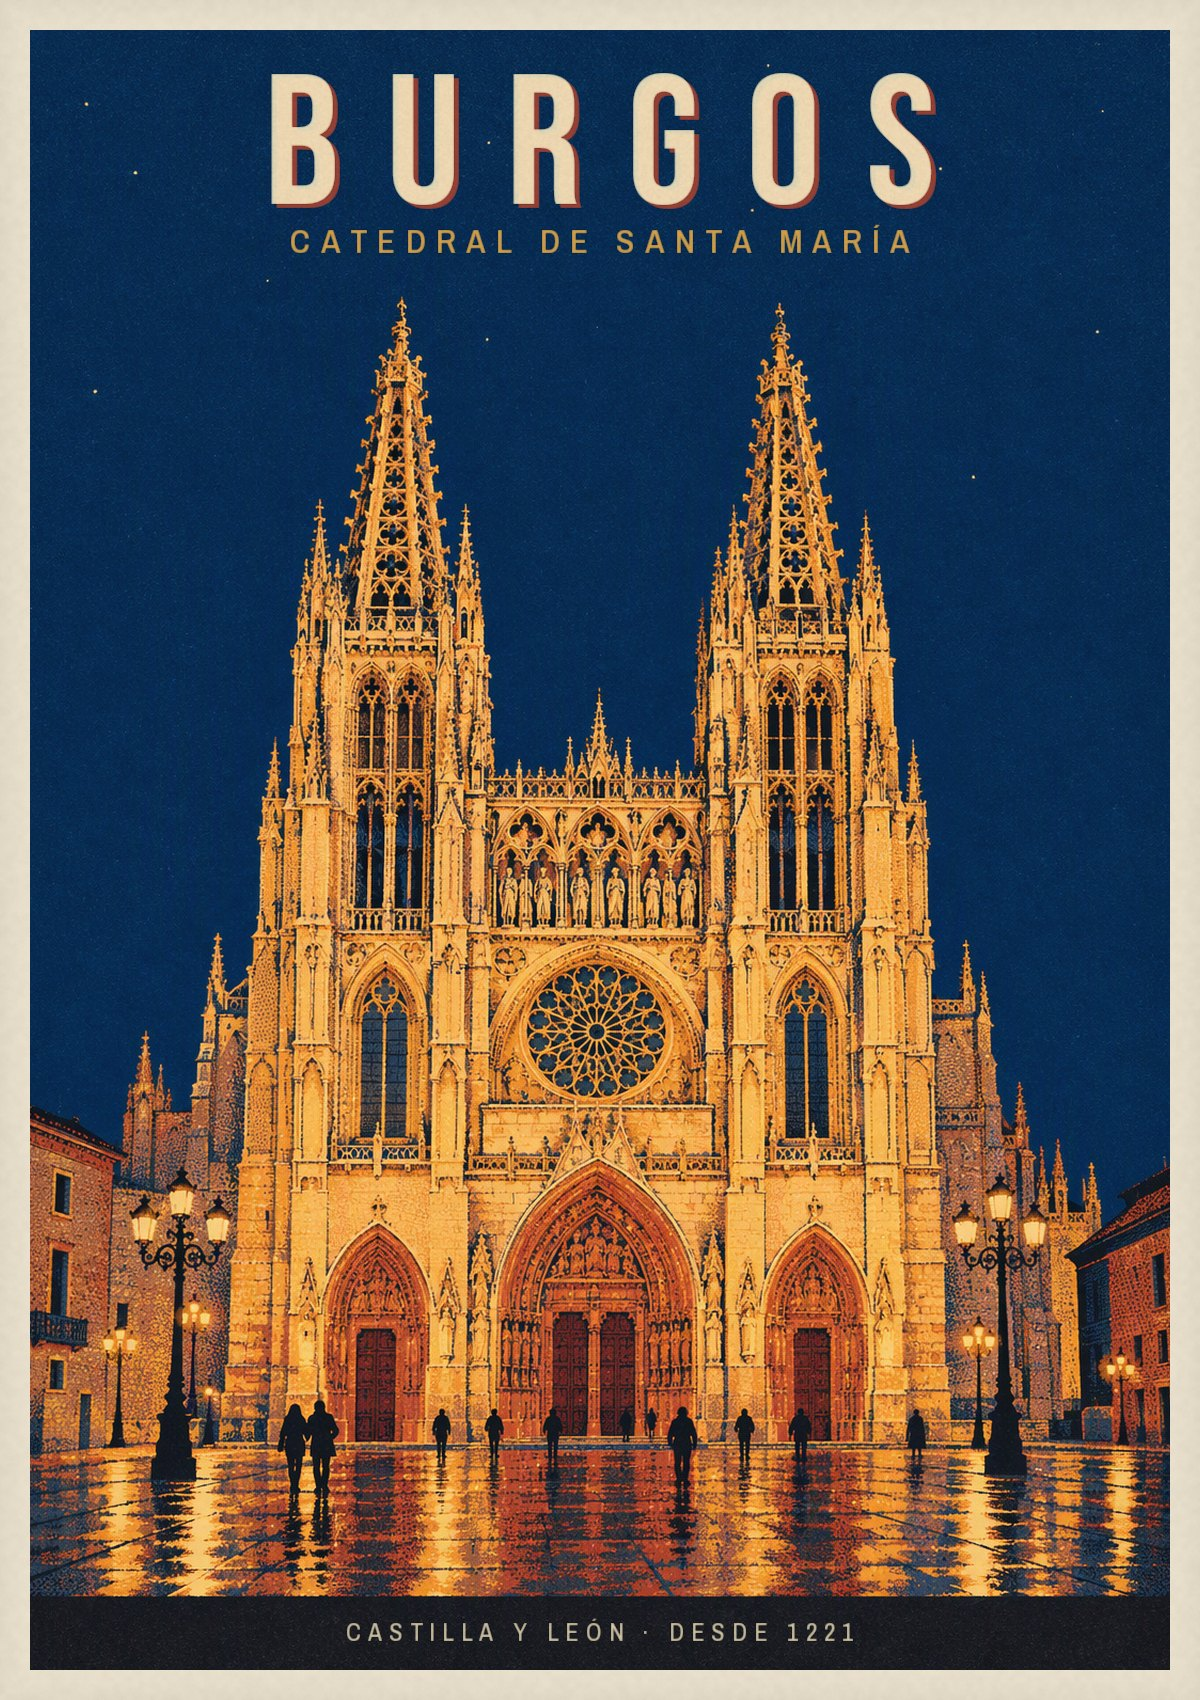
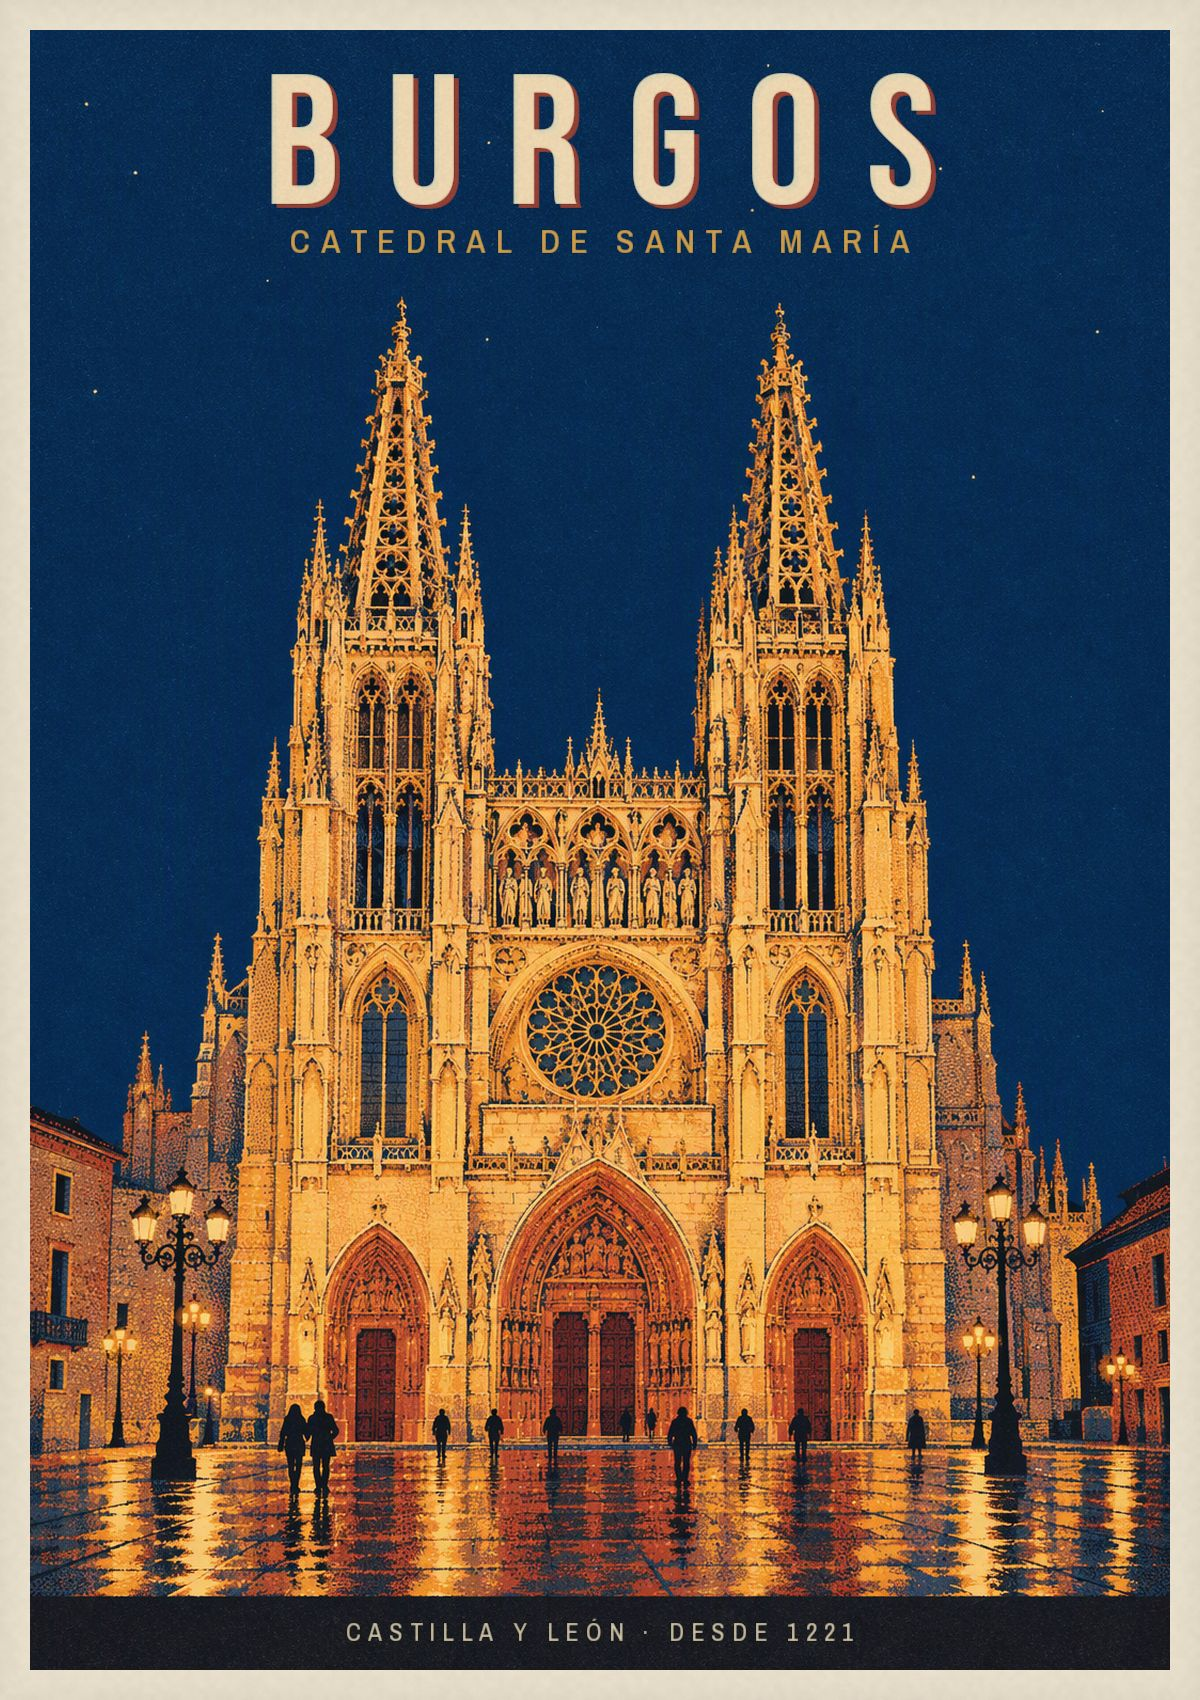
Room: load the code and assets from jsDelivr (GitHub Pages is slow on some routes)

diff --git a/room/js/scene/room.js b/room/js/scene/room.js
@@ -1,7 +1,8 @@
 import * as THREE from 'three';
 import { GLTFLoader } from '../../vendor/three/addons/loaders/GLTFLoader.js';
-import { DRACOLoader } from '../../vendor/three/addons/loaders/DRACOLoader.js';
 import { LIGHTS, lightmapMaterial, dynamicMaterial, glowMaterial, discMaterial, glassMaterial } from './materials.js';
+import { dracoLoader } from './draco.js';
+import { asset } from '../base.js';
 
 // three(x,y,z) = blender(x, z, -y)
 export const toThree = (b) => new THREE.Vector3(b[0], b[2], -b[1]);
@@ -48,15 +49,13 @@ function glossOf(p) {
   return s * (1 - p.rough * 0.6);
 }
 
-export async function loadRoom({ renderer, base = 'assets/', quality = 'high', onProgress = () => {} }) {
+export async function loadRoom({ renderer, base = asset('assets/'), quality = 'high', onProgress = () => {} }) {
   const manager = new THREE.LoadingManager();
   const loader = new GLTFLoader(manager);
-  const draco = new DRACOLoader(manager);
-  draco.setDecoderPath('vendor/three/draco/');
-  loader.setDRACOLoader(draco);
+  loader.setDRACOLoader(dracoLoader());
   const texLoader = new THREE.TextureLoader(manager);
   let loaded = 0;
-  const total = 16;
+  const total = 14;
   const tick = () => { loaded += 1; onProgress(Math.min(1, loaded / total)); };
   const lmMeta = await (await fetch(`${base}lightmaps/lightmaps.json`)).json();
   const sfx = quality === 'mobile' ? '_m' : '';
@@ -65,15 +64,16 @@ export async function loadRoom({ renderer, base = 'assets/', quality = 'high', o
   const black = new THREE.DataTexture(new Uint8Array([0, 0, 0, 255]), 1, 1);
   black.needsUpdate = true;
   for (const [a, entry] of Object.entries(lmMeta.atlases)) {
-    const at = { scales: new THREE.Vector3(), black, lampi: null, scaleI: 0 };
+    const at = { scales: new THREE.Vector3(), black, lampi: null, scaleI: 0, materials: [] };
     atlases[a] = at;
     const g = entry.groups;
     at.scales.set(g.amb.scale, g.lamp.scale, g.tv.scale);
-    // the lamp's bounce light (older bakes don't have it: the aimed lamp then only has its live direct light)
+    // the lamp's bounce light is only needed once the visitor aims the lamp: it loads after the first frame
+    // (deferred() below); older bakes don't have it, and the aimed lamp then only has its live direct light
     if (g.lampi) {
       at.scaleI = g.lampi.scale;
-      jobs.push(loadTex(texLoader, `${base}lightmaps/${g.lampi.file.replace('.webp', `${sfx}.webp`)}`, { renderer }).then((t) => { at.lampi = t; tick(); }));
-    } else loaded += 1;
+      at.lampiUrl = `${base}lightmaps/${g.lampi.file.replace('.webp', `${sfx}.webp`)}`;
+    }
     jobs.push(loadTex(texLoader, `${base}lightmaps/${g.amb.file.replace('.webp', `${sfx}.webp`)}`, { renderer }).then((t) => { at.amb = t; tick(); }));
     jobs.push(loadTex(texLoader, `${base}lightmaps/${g.lamp.file.replace('.webp', `${sfx}.webp`)}`, { renderer }).then((t) => { at.lamp = t; tick(); }));
     jobs.push(loadTex(texLoader, `${base}lightmaps/${g.tv.file.replace('.webp', `${sfx}.webp`)}`, { renderer }).then((t) => { at.tv = t; tick(); }));
@@ -88,7 +88,6 @@ export async function loadRoom({ renderer, base = 'assets/', quality = 'high', o
     if (e.total) onProgress(Math.min(1, (loaded + (e.loaded / e.total) * 4) / total));
   }).then((g) => { gltf = g; loaded += 4; onProgress(loaded / total); }));
   await Promise.all(jobs);
-  draco.dispose();
 
   const scene = gltf.scene;
   const byName = new Map();
@@ -147,6 +146,7 @@ export async function loadRoom({ renderer, base = 'assets/', quality = 'high', o
       let m = matCache.get(key);
       if (!m || runtime) {
         m = lightmapMaterial({ atlas: at, combined, gloss: glossOf(p), runtime: runtime ? null : label, tint: runtime ? new THREE.Color(1, 1, 1) : null, live });
+        at.materials.push(m);
         if (!runtime) matCache.set(key, m);
       }
       mesh.material = m;
@@ -185,5 +185,12 @@ export async function loadRoom({ renderer, base = 'assets/', quality = 'high', o
   if (L.Lamp_LightPos && L.Lamp_LightAim) {
     LIGHTS.lampDir.value.copy(toThree(L.Lamp_LightAim.pos)).sub(toThree(L.Lamp_LightPos.pos)).normalize();
   }
-  return { scene, byName, views, atlases, dynTex, specials, hoverables, dynamics, lmMeta };
+  // what can wait until the room is on screen: the lamp's bounce lightmaps
+  const deferred = () => Promise.all(Object.values(atlases).map((at) => (at.lampiUrl && !at.lampi
+    ? loadTex(new THREE.TextureLoader(), at.lampiUrl, { renderer }).then((t) => {
+      at.lampi = t;
+      for (const m of at.materials) { m.uniforms.tLampI.value = t; m.uniforms.uScaleI.value = at.scaleI; }
+    }).catch((err) => console.warn('lamp bounce lightmap unavailable', err))
+    : null)));
+  return { scene, byName, views, atlases, dynTex, specials, hoverables, dynamics, lmMeta, deferred };
 }

diff --git a/room/js/app/world.js b/room/js/app/world.js
@@ -13,6 +13,7 @@ import { LampLight } from '../scene/lamplight.js';
 import { FineToy } from '../scene/finetoy.js';
 import { LAMP_HEAD } from '../scene/room.js';
 import { ownMaterial } from '../scene/materials.js';
+import { asset } from '../base.js';
 import { paintNotepad, paintPhoto, paintDiscLabel } from '../paint/index.js';
 import { workItems } from '../content.js';
 
@@ -35,9 +36,10 @@ function loadImage(src) {
     if (!src) { resolve(null); return; }
     const img = new Image();
     img.decoding = 'async';
+    img.crossOrigin = 'anonymous';             // painted into canvases that become WebGL textures
     img.onload = () => resolve(img);
     img.onerror = () => resolve(null);
-    img.src = src;
+    img.src = asset(src);
   });
 }
 
@@ -47,8 +49,9 @@ export async function buildWorld({ stage, content, audio, onProgress = () => {},
   const { renderer, camera } = stage;
   const reachyP = loadReachy().catch((err) => { console.warn('Reachy Mini unavailable', err); return null; });
   const stackP = loadStackchan().catch((err) => { console.warn('Stack-chan unavailable', err); return null; });
-  // fetched alongside the room so they never hold up the first frame
-  const imagesP = Promise.all([loadImage(content.site?.photo), loadImage(content.site?.poster)]);
+  // the photo is fetched alongside the room; the poster is painted when it arrives (it never holds up the first frame)
+  const photoP = loadImage(content.site?.photo);
+  const posterP = loadImage(content.site?.poster);
   const room = await loadRoom({ renderer, quality: stage.textures, onProgress: (p) => onProgress(p * 0.85) });
   const scene = new THREE.Scene();
   scene.add(room.scene);
@@ -57,7 +60,7 @@ export async function buildWorld({ stage, content, audio, onProgress = () => {},
 
   // city + rain
   const win = await createWindowView({
-    renderer, basePath: 'assets/window/', quality: stage.textures,
+    renderer, basePath: asset('assets/window/'), quality: stage.textures,
     onLightning: (delay) => audio.thunder(delay),
   });
   get('Window_View')?.traverse((o) => { if (o.isMesh) { o.material = win.material; o.visible = true; o.renderOrder = -1; } });
@@ -87,11 +90,11 @@ export async function buildWorld({ stage, content, audio, onProgress = () => {},
     }
     return tex;
   };
-  const [[img, posterImg]] = await Promise.all([imagesP, paintNotepad(deskPad, content)]);
+  const [img] = await Promise.all([photoP, paintNotepad(deskPad, content)]);
   await paintPhoto(photo, img);
   const deskPadTex = setRuntime('notepad', deskPad);
   setRuntime('photo', photo);
-  if (posterImg) setRuntime('poster', posterImg);
+  posterP.then((posterImg) => { if (posterImg) setRuntime('poster', posterImg); });
   // printed side of the CD
   const discMesh = meshOf(get('CDP_Disc'));
   if (discMesh?.material?.uniforms?.tLabel) {
@@ -254,5 +257,7 @@ export async function buildWorld({ stage, content, audio, onProgress = () => {},
   onProgress(0.96);
   await renderer.compileAsync(scene, camera);
   onProgress(1);
-  return { room, scene, win, tv, pc, vfd, lcd, tapes, props, held, picker, hoverSets, batch, deskPad, deskPadTex, get, tvScreenHit, occluders, reachy, stack, fine, lamp };
+  // after the first frame: what the room can do without for a moment
+  const loadDeferred = () => room.deferred();
+  return { room, scene, win, tv, pc, vfd, lcd, tapes, props, held, picker, hoverSets, batch, deskPad, deskPadTex, get, tvScreenHit, occluders, reachy, stack, fine, lamp, loadDeferred };
 }

diff --git a/room/js/main.js b/room/js/main.js
@@ -6,6 +6,7 @@ import { Input } from './app/input.js';
 import { createHud } from './ui/hud.js';
 import { createLoader } from './ui/loader.js';
 import { AudioEngine } from './audio/engine.js';
+import { asset } from './base.js';
 
 // ---------------------------------------------------------------------------------------------------------------
 // Boot: loader → assets → world → app. No WebGL2 (or a failure while loading) sends you to the lite page.
@@ -25,7 +26,7 @@ async function boot() {
   loader.setStatus('WARMING TUBE');
   const stageEl = document.getElementById('stage');
   const stage = new Stage(stageEl);
-  const audio = new AudioEngine({ basePath: 'assets/audio/' });
+  const audio = new AudioEngine({ basePath: asset('assets/audio/') });
   const audioReady = audio.init();
 
   let app = null;
@@ -101,9 +102,16 @@ async function boot() {
   });
   window.__app = app;
   window.__ready = true;
+  // now what can wait: the lamp's bounce lightmaps, the poster
+  world.loadDeferred?.();
 }
 
-boot().catch((err) => {
-  console.error(err);
-  fallback(err?.message || String(err));
-});
+// The published page may start this module twice (from the CDN, and from the site if the CDN is slow): the first copy
+// to get here runs the room.
+if (!window.__roomBooted) {
+  window.__roomBooted = true;
+  boot().catch((err) => {
+    console.error(err);
+    fallback(err?.message || String(err));
+  });
+}

diff --git a/room/js/scene/reachy.js b/room/js/scene/reachy.js
@@ -1,6 +1,7 @@
 import * as THREE from 'three';
 import { GLTFLoader } from '../../vendor/three/addons/loaders/GLTFLoader.js';
-import { DRACOLoader } from '../../vendor/three/addons/loaders/DRACOLoader.js';
+import { dracoLoader } from './draco.js';
+import { asset } from '../base.js';
 import { dynamicMaterial } from './materials.js';
 
 // ---------------------------------------------------------------------------------------------------------------
@@ -68,16 +69,13 @@ class Pose {
   angleTo(o) { return this.q.angleTo(o.q) + this.p.distanceTo(o.p) * 20; }
 }
 
-export async function loadReachy({ base = 'assets/reachy/' } = {}) {
+export async function loadReachy({ base = asset('assets/reachy/') } = {}) {
   const loader = new GLTFLoader();
-  const draco = new DRACOLoader();
-  draco.setDecoderPath('vendor/three/draco/');
-  loader.setDRACOLoader(draco);
+  loader.setDRACOLoader(dracoLoader());
   const [rig, gltf] = await Promise.all([
     fetch(`${base}rig.json`).then((r) => r.json()),
     loader.loadAsync(`${base}reachy.glb`),
   ]);
-  draco.dispose();
   return new Reachy(rig, gltf.scene);
 }
 

diff --git a/room/js/scene/stackchan.js b/room/js/scene/stackchan.js
@@ -1,6 +1,7 @@
 import * as THREE from 'three';
 import { GLTFLoader } from '../../vendor/three/addons/loaders/GLTFLoader.js';
-import { DRACOLoader } from '../../vendor/three/addons/loaders/DRACOLoader.js';
+import { dracoLoader } from './draco.js';
+import { asset } from '../base.js';
 import { dynamicMaterial, LIGHTS } from './materials.js';
 
 // ---------------------------------------------------------------------------------------------------------------
@@ -44,16 +45,13 @@ export function colourName(h) {
   return best[1];
 }
 
-export async function loadStackchan({ base = 'assets/stackchan/' } = {}) {
+export async function loadStackchan({ base = asset('assets/stackchan/') } = {}) {
   const loader = new GLTFLoader();
-  const draco = new DRACOLoader();
-  draco.setDecoderPath('vendor/three/draco/');
-  loader.setDRACOLoader(draco);
+  loader.setDRACOLoader(dracoLoader());
   const [rig, gltf] = await Promise.all([
     fetch(`${base}rig.json`).then((r) => r.json()),
     loader.loadAsync(`${base}stackchan.glb`),
   ]);
-  draco.dispose();
   return new Stackchan(rig, gltf.scene);
 }
 

diff --git a/room/js/base.js b/room/js/base.js
@@ -1,0 +1,14 @@
+// ---------------------------------------------------------------------------------------------------------------
+// Where the room's files live: the folder the code itself was loaded from (not the page's address). The published
+// home page loads the code, and with it every asset, from jsDelivr, pinned to the commit it was published in
+// (tools/publish_home.sh): GitHub Pages is slow to serve large files on some routes, and it keeps the 3D room, the
+// lightmaps, the textures and the sounds off its bandwidth. In development, and whenever the CDN fails, the code
+// comes from the page's own origin, and so do the assets.
+// ---------------------------------------------------------------------------------------------------------------
+export const BASE = new URL('../', import.meta.url).href;
+
+// a path inside the site ('assets/…', 'vendor/…') as a full URL; absolute URLs pass through
+export function asset(path) {
+  if (!path || /^(?:[a-z]+:|\/\/)/i.test(path)) return path;
+  return new URL(path.replace(/^\.?\//, ''), BASE).href;
+}

diff --git a/room/js/programs/tv_tape.js b/room/js/programs/tv_tape.js
@@ -1,4 +1,5 @@
 import { clamp, fitLines, loadFonts, lerp, mod, rnd, wrapText } from './util.js';
+import { asset } from '../base.js';
 
 const visuals = ['terminal', 'wireframe', 'map', 'charts', 'starfield', 'screens', 'oscilloscope', 'photos'];
 
@@ -18,13 +19,15 @@ export default {
     const photos = visual === 'photos' ? (item.images || []).map((src) => {
       const img = new Image();
       img.decoding = 'async';
-      img.src = src;
+      img.crossOrigin = 'anonymous';           // drawn into the TV's canvas, which becomes a WebGL texture
+      img.src = asset(src);
       return img;
     }) : [];
     let video = null;
     if (visual === 'video' && item.video) {
       video = document.createElement('video');
-      video.src = item.video;
+      video.crossOrigin = 'anonymous';
+      video.src = asset(item.video);
       video.muted = true;
       video.loop = true;
       video.playsInline = true;

diff --git a/room/js/app/app_reachy.js b/room/js/app/app_reachy.js
@@ -1,6 +1,7 @@
 import * as THREE from 'three';
 import { App } from './app_more.js';
 import { SpeechBubble } from '../ui/bubble.js';
+import { asset } from '../base.js';
 
 // ---------------------------------------------------------------------------------------------------------------
 // Reachy Mini on the desk: wake it up (click, or R) and it raises its head with its own "toudoum", then follows the
@@ -33,7 +34,7 @@ Object.assign(App.prototype, {
     };
     this._reachy = R;
     this.hud.setReachy?.(false);
-    fetch('assets/reachy/voice.json').then((res) => (res.ok ? res.json() : null)).then((v) => { R.voice = v; }).catch(() => {});
+    fetch(asset('assets/reachy/voice.json')).then((res) => (res.ok ? res.json() : null)).then((v) => { R.voice = v; }).catch(() => {});
     r.onEvent = (ev, data) => {
       if (ev === 'sound') this.audio.play(data, { volume: 0.85 });
       else if (ev === 'awake') {

diff --git a/room/js/paint/util.js b/room/js/paint/util.js
@@ -20,14 +20,16 @@ export function rngFor(key) {
   return mulberry32(hashString(String(key)));
 }
 
-export async function loadPaintFonts() {
+// the handwriting and print on the paper props; a slow network never holds the room back more than a few seconds
+export async function loadPaintFonts(timeoutMs = 6000) {
   if (!document?.fonts) return;
-  await Promise.all([
+  const all = Promise.all([
     document.fonts.load('700 96px Caveat'),
     document.fonts.load('600 64px Caveat'),
     document.fonts.load('800 72px Archivo'),
     document.fonts.load('700 34px Courier Prime'),
   ].map((p) => p.catch(() => null)));
+  await Promise.race([all, new Promise((r) => setTimeout(r, timeoutMs))]);
 }
 
 export function cssColor(color, fallback = '#777') {

diff --git a/room/js/audio/engine.js b/room/js/audio/engine.js
@@ -1,3 +1,4 @@
+import { asset } from '../base.js';
 const STORAGE_KEY = 'sound';
 
 function dbToGain(db = 0) { return Math.pow(10, db / 20); }
@@ -5,7 +6,7 @@ function clamp(v, a = 0, b = 1) { return Math.max(a, Math.min(b, v)); }
 function noopHandle() { return { stop() {}, setVolume() {} }; }
 
 export class AudioEngine {
-  constructor({ basePath = 'assets/audio/' } = {}) {
+  constructor({ basePath = asset('assets/audio/') } = {}) {
     this.basePath = basePath.endsWith('/') ? basePath : `${basePath}/`;
     this.manifest = {};
     this.buffers = new Map();

diff --git a/room/js/programs/util.js b/room/js/programs/util.js
@@ -16,9 +16,10 @@ export const rnd = (n) => {
   return x - Math.floor(x);
 };
 
-export async function loadFonts(list = ['28px VT323']) {
+export async function loadFonts(list = ['28px VT323'], timeoutMs = 6000) {
   if (!document?.fonts) return;
-  await Promise.all(list.map((font) => document.fonts.load(font).catch(() => null)));
+  const all = Promise.all(list.map((font) => document.fonts.load(font).catch(() => null)));
+  await Promise.race([all, new Promise((r) => setTimeout(r, timeoutMs))]);
 }
 
 export function makeCanvas(w, h) {

diff --git a/room/js/scene/draco.js b/room/js/scene/draco.js
@@ -1,0 +1,13 @@
+import { DRACOLoader } from '../../vendor/three/addons/loaders/DRACOLoader.js';
+import { asset } from '../base.js';
+
+// One Draco decoder for every glTF in the room (the room, Reachy, Stack-chan): one wasm download, one worker pool.
+let shared = null;
+
+export function dracoLoader() {
+  if (!shared) {
+    shared = new DRACOLoader();
+    shared.setDecoderPath(asset('vendor/three/draco/'));
+  }
+  return shared;
+}
